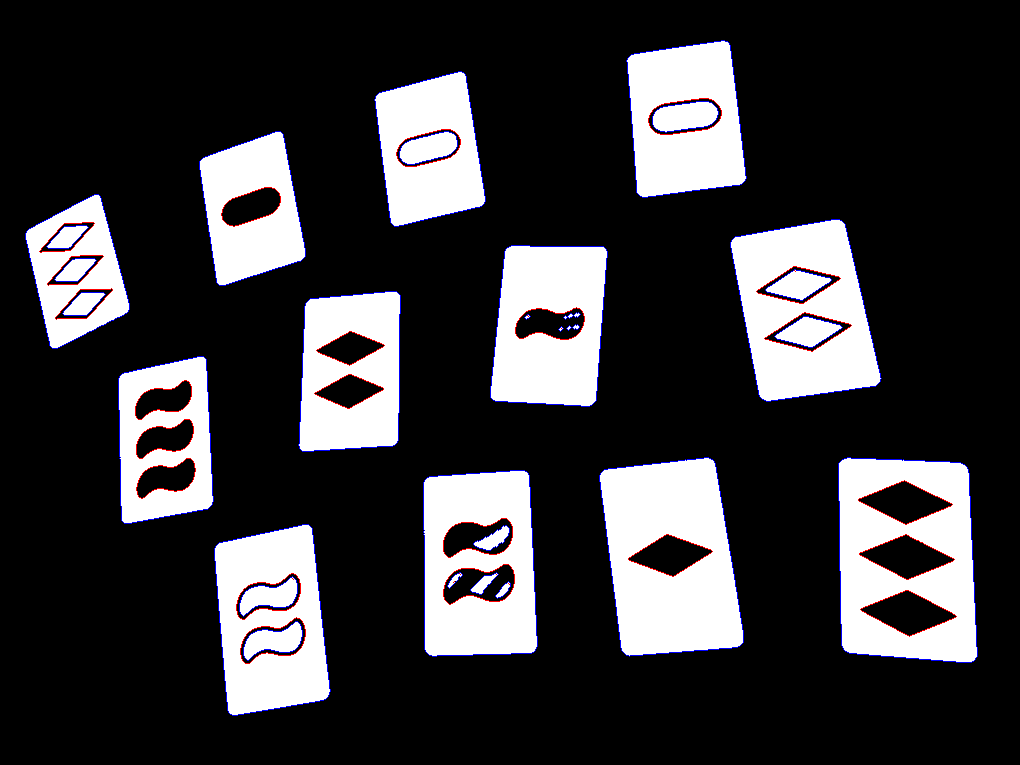
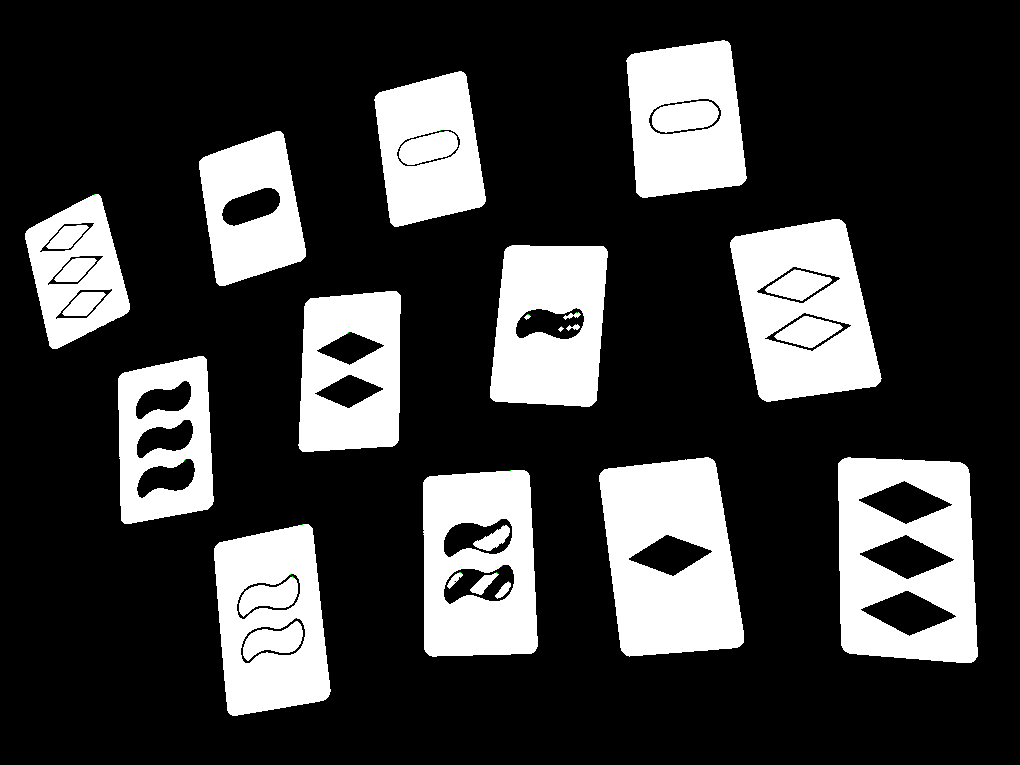
more approx

diff --git a/examples/hull.rs b/examples/hull.rs
@@ -1,6 +1,10 @@
 use openbv::{
     imageops::{binarize::BinarizeExt, contour::ContourExt, dilate::DilateExt, erode::ErodeExt},
-    math::{hull::{approx_hull, graham_scan}, kernel::PLUS_FILTER, thresholds::ThresholdExt},
+    math::{
+        hull::{approx_hull, graham_scan},
+        kernel::PLUS_FILTER,
+        thresholds::ThresholdExt,
+    },
     open_gray,
 };
 
@@ -13,9 +17,15 @@ fn main() {
     let eroded_img = binary_img.erode(PLUS_FILTER, 2);
     let dilated_img = eroded_img.dilate(PLUS_FILTER, 2);
 
-    let contours = dilated_img.find_contours();
-    let hulls = contours.0.iter().map(|c| graham_scan(&c.points)).collect::<Vec<_>>();
-    // let hulls = contours.0.iter().map(|c| graham_scan(&c.points)).map(|c| approx_hull(&c, 400.)).collect::<Vec<_>>();
+    let (mut inner_contours, mut outer_contours) = dilated_img.find_contours();
+    inner_contours.append(&mut outer_contours);
+
+    // let hulls = inner_contours.iter().map(|c| graham_scan(&c.points)).collect::<Vec<_>>();
+    let hulls = inner_contours
+        .iter()
+        .map(|c| graham_scan(&c.points))
+        .map(|c| approx_hull(&c, 0.8))
+        .collect::<Vec<_>>();
     let hull_img = dilated_img.draw_hulls(hulls);
     hull_img.save("test.png").unwrap();
 }

diff --git a/src/imageops/contour.rs b/src/imageops/contour.rs
@@ -1,4 +1,4 @@
-use image::{DynamicImage, GenericImageView, GrayImage, RgbaImage};
+use image::{DynamicImage, RgbaImage};
 
 use super::binarize::BinaryImage;
 

diff --git a/src/imageops/binarize.rs b/src/imageops/binarize.rs
@@ -1,5 +1,3 @@
-use std::io::Read;
-
 use image::{DynamicImage, GrayImage, ImageResult, RgbImage};
 use rayon::iter::ParallelIterator;
 
